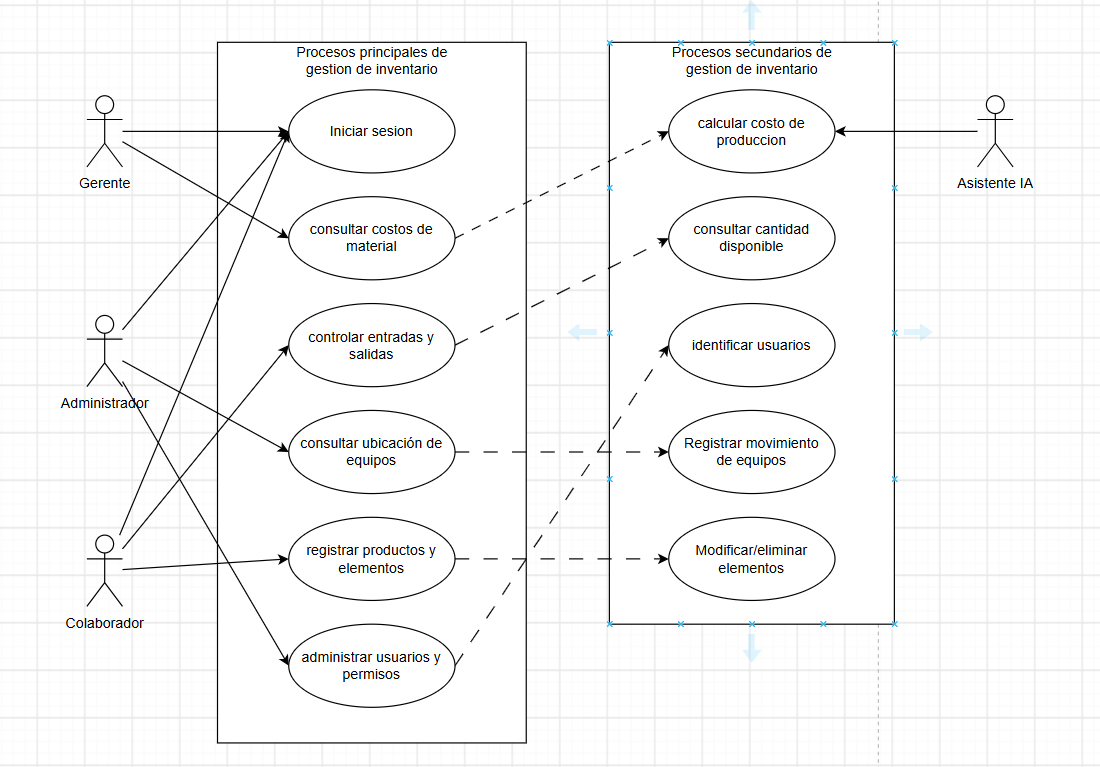
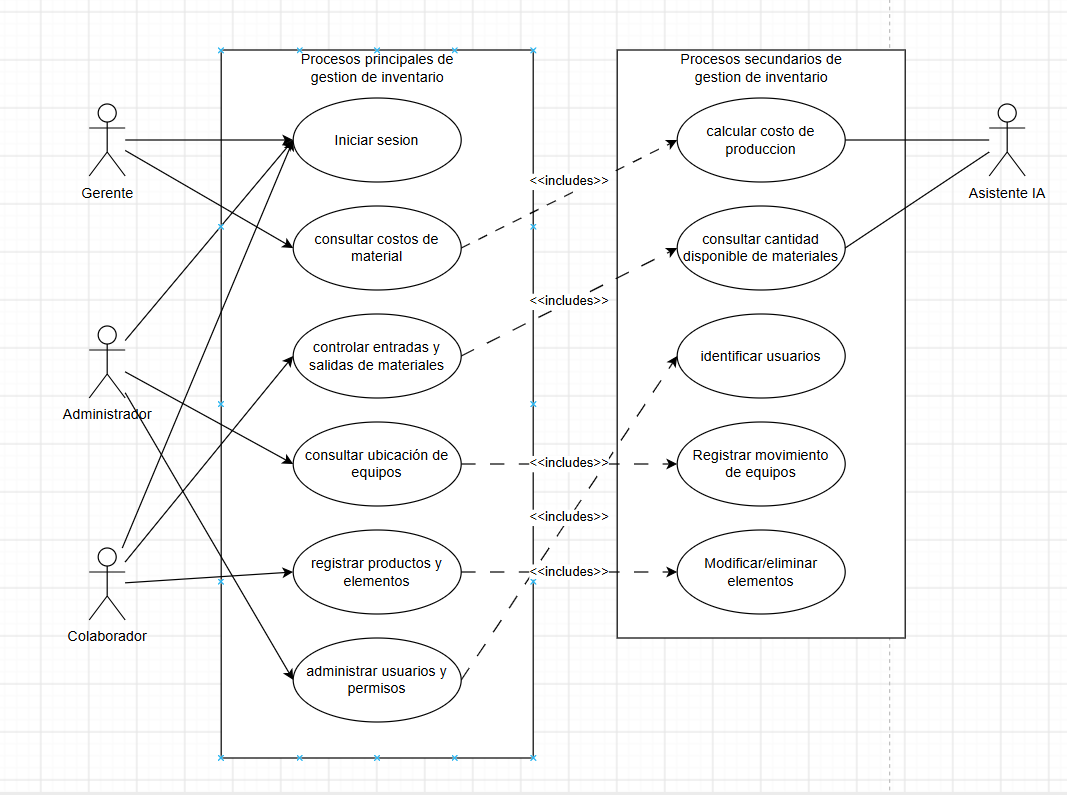
Update 5

diff --git a/docs/project-planning4.md b/docs/project-planning4.md
@@ -2,7 +2,7 @@
 
 Se trabaja en clase, por equipo.
 
-- **Entrega:** en el **repositorio del equipo en GitHub**, diligenciando el enunciado con los puntos 1 a 5 y subiendo el diagrama al repositorio *(imagen exportada o fuente PlantUML/draw.io)*.
+- **Entrega:** en el **repositorio del equipo en GitHub**, diligenciando el enunciado con los puntos 1 a 5 y subiendo el diagrama al repositorio _(imagen exportada o fuente PlantUML/draw.io)_.
 - Herramienta: draw.io, PlantUML, StarUML o Visual Paradigm.
 
 ---
@@ -11,34 +11,34 @@ Se trabaja en clase, por equipo.
 
 **Actores**
 
-| Actor         | Tipo *(humano / sistema externo / tiempo)* | Principal o secundario | Objetivo en el sistema |
-| ------------- | ------------------------------------------ | ---------------------- | ---------------------- |
-| *(ADMINISTRADOR)* | *(Humano)*                              | *(Principal)*          | *(administrar y supervisar el correcto funcionamiento del sistema)*          |
-| *(GERENTE)* | *(Humano)*                              | *(Principal)*          | *(administrar y organizar el inventario y tareas asignadas)*          |
-| *(COLABORADOR)* | *(Humano)*                              | *(Principal)*          | *(organiza y documenta los movimientos relacionados con el inventario)*          |
-| *(IA DE ORGANIZACION)* | *(Sistema externo)*                              | *(Secundario)*          | *(apoya en los procesos de organizacion de materias prímas)*          |
-| …             |                                            |                        |                        |
+| Actor                  | Tipo _(humano / sistema externo / tiempo)_ | Principal o secundario | Objetivo en el sistema                                                  |
+| ---------------------- | ------------------------------------------ | ---------------------- | ----------------------------------------------------------------------- |
+| _(ADMINISTRADOR)_      | _(Humano)_                                 | _(Principal)_          | _(administrar y supervisar el correcto funcionamiento del sistema)_     |
+| _(GERENTE)_            | _(Humano)_                                 | _(Principal)_          | _(administrar y organizar el inventario y tareas asignadas)_            |
+| _(COLABORADOR)_        | _(Humano)_                                 | _(Principal)_          | _(organiza y documenta los movimientos relacionados con el inventario)_ |
+| _(IA DE ORGANIZACION)_ | _(Sistema externo)_                        | _(Secundario)_         | _(apoya en los procesos de organizacion de materias prímas)_            |
+| …                      |                                            |                        |                                                                         |
 
 - Roles, no personas. La base de datos y el servidor **no** son actores.
 - Si el proyecto tiene componente de IA, el **proveedor del modelo** es un actor secundario.
 
 **Casos de uso**
 
-| ID    | Nombre *(verbo en infinitivo + objeto)* | Actor principal | RF que cubre |
-| ----- | --------------------------------------- | --------------- | ------------ |
-| CU-01 | *(registrar los productos o elementos del inventario)*  | *(COLABORADOR)*   | *(RF-01)*    |
-| CU-02 | *(Iniciar sesión dentro del sistema)*  | *(COLABORADOR,ADMINISTRADOR y ge)* | *(RF-02)*    |
-| CU-03 | *(Controlar entradas y salidas de materiales )*  | *(COLABORADOR Y ADMINISTRADOR)* | *(RF-03)*    |
-| CU-04 | *(Consultar la cantidad de material disponible)*  | *(COLABORADOR Y ADMINISTRADOR)* | *(RF-07)*    |
-| CU-05 | *(Consultar los costos asociados con los materiales)*  | *(ADMINISTRADOR)* | *(RF-08)*    |
-| CU-06 | *(Asignar tareas a los colaboradores)*  | *(GERENTE)* | *(RF-13)*    |
-| CU-07 | *(Registrar el movimiento de un equipo o elemento)*  | *(COLABORADOR)* | *(RF-05, RF-06)*    |
-| CU-08 | *(Calcular el costo de producción de un producto o trabajo)*  | *(GERENTE)* | *(RF-09)*    |
-| CU-09 | *(Administrar usuarios y permisos por rol)*  | *(ADMINISTRADOR)* | *(RF-10)*    |
-| CU-10 | *(Modificar o eliminar productos o elementos registrados)*  | *(GERENTE)* | *(RF-11)*    |
-| CU-11 | *(Consultar la existencia y ubicación de equipos o elementos)*  | *(COLABORADOR)* | *(RF-12)*    |
-| CU-12 | *(Sugerir la organización de materias primas con IA)*  | *(GERENTE)* | *(RF-14)*    |
-| …     |                                         |                 |              |
+| ID    | Nombre _(verbo en infinitivo + objeto)_                        | Actor principal                    | RF que cubre     |
+| ----- | -------------------------------------------------------------- | ---------------------------------- | ---------------- |
+| CU-01 | _(registrar los productos o elementos del inventario)_         | _(COLABORADOR)_                    | _(RF-01)_        |
+| CU-02 | _(Iniciar sesión dentro del sistema)_                          | _(COLABORADOR,ADMINISTRADOR y ge)_ | _(RF-02)_        |
+| CU-03 | _(Controlar entradas y salidas de materiales )_                | _(COLABORADOR Y ADMINISTRADOR)_    | _(RF-03)_        |
+| CU-04 | _(Consultar la cantidad de material disponible)_               | _(COLABORADOR Y ADMINISTRADOR)_    | _(RF-07)_        |
+| CU-05 | _(Consultar los costos asociados con los materiales)_          | _(ADMINISTRADOR)_                  | _(RF-08)_        |
+| CU-06 | _(Asignar tareas a los colaboradores)_                         | _(GERENTE)_                        | _(RF-13)_        |
+| CU-07 | _(Registrar el movimiento de un equipo o elemento)_            | _(COLABORADOR)_                    | _(RF-05, RF-06)_ |
+| CU-08 | _(Calcular el costo de producción de un producto o trabajo)_   | _(GERENTE)_                        | _(RF-09)_        |
+| CU-09 | _(Administrar usuarios y permisos por rol)_                    | _(ADMINISTRADOR)_                  | _(RF-10)_        |
+| CU-10 | _(Modificar o eliminar productos o elementos registrados)_     | _(GERENTE)_                        | _(RF-11)_        |
+| CU-11 | _(Consultar la existencia y ubicación de equipos o elementos)_ | _(COLABORADOR)_                    | _(RF-12)_        |
+| CU-12 | _(Sugerir la organización de materias primas con IA)_          | _(GERENTE)_                        | _(RF-14)_        |
+| …     |                                                                |                                    |                  |
 
 - **Mínimo 6 casos**, todos con al menos un RF.
 
@@ -56,21 +56,21 @@ Un solo diagrama con:
 
 **Justificación de las relaciones:**
 
-- **CU-03 `«include»` CU-04:** toda salida de material debe verificar primero la cantidad disponible, para evitar que dos trabajadores soliciten el mismo elemento cuando solo hay una unidad *(P7)*; además, la consulta de cantidades también se usa sola *(P5)*.
-- **CU-08 `«include»` CU-05:** el cálculo del costo de producción siempre parte de los costos de los materiales registrados *(P4, P5)*, y esos costos también se consultan sin calcular nada.
+- **CU-03 `«include»` CU-04:** toda salida de material debe verificar primero la cantidad disponible, para evitar que dos trabajadores soliciten el mismo elemento cuando solo hay una unidad _(P7)_; además, la consulta de cantidades también se usa sola _(P5)_.
+- **CU-08 `«include»` CU-05:** el cálculo del costo de producción siempre parte de los costos de los materiales registrados _(P4, P5)_, y esos costos también se consultan sin calcular nada.
 - **GERENTE hereda de COLABORADOR (generalización):** el gerente puede hacer todo lo que hace un colaborador sobre el inventario, además de asignar tareas y calcular costos.
 
 ---
 
 ## 3. Casos críticos
 
-Los tres casos que el prototipo implementa **de punta a punta** *(de la interfaz a la persistencia)*.
+Los tres casos que el prototipo implementa **de punta a punta** _(de la interfaz a la persistencia)_.
 
-| Caso      | Por qué es crítico *(valor / frecuencia / riesgo técnico)* |
-| --------- | ---------------------------------------------------------- |
-| *(CU-03)* | *(Valor: es el núcleo del inventario, pues mantiene actualizada la cantidad real de materiales. Frecuencia: se usa cada vez que un material entra o sale. Riesgo técnico: concurrencia, ya que dos trabajadores pueden pedir el mismo elemento cuando solo hay una unidad (P7, RNF-05).)* |
-| *(CU-07)* | *(Valor: resuelve el dolor principal, que los equipos se mueven sin actualizar el registro y el inventario no coincide con la realidad (P3, P6). Frecuencia: cada movimiento de equipos entre puestos. Riesgo: sin trazabilidad de quién y cuándo, la empresa puede enfrentar sanciones (RNF-04).)* |
-| *(CU-08)* | *(Valor: reemplaza el cálculo manual en hojas de cálculo, propenso a errores (P4). Frecuencia: cada trabajo o producto cotizado o fabricado. Riesgo técnico: la fórmula combina materiales, recursos y otros costos, y un error de cálculo afecta directamente el dinero de la empresa.)* |
+| Caso      | Por qué es crítico _(valor / frecuencia / riesgo técnico)_                                                                                                                                                                                                                                          |
+| --------- | --------------------------------------------------------------------------------------------------------------------------------------------------------------------------------------------------------------------------------------------------------------------------------------------------- |
+| _(CU-03)_ | _(Valor: es el núcleo del inventario, pues mantiene actualizada la cantidad real de materiales. Frecuencia: se usa cada vez que un material entra o sale. Riesgo técnico: concurrencia, ya que dos trabajadores pueden pedir el mismo elemento cuando solo hay una unidad (P7, RNF-05).)_           |
+| _(CU-07)_ | _(Valor: resuelve el dolor principal, que los equipos se mueven sin actualizar el registro y el inventario no coincide con la realidad (P3, P6). Frecuencia: cada movimiento de equipos entre puestos. Riesgo: sin trazabilidad de quién y cuándo, la empresa puede enfrentar sanciones (RNF-04).)_ |
+| _(CU-08)_ | _(Valor: reemplaza el cálculo manual en hojas de cálculo, propenso a errores (P4). Frecuencia: cada trabajo o producto cotizado o fabricado. Riesgo técnico: la fórmula combina materiales, recursos y otros costos, y un error de cálculo afecta directamente el dinero de la empresa.)_           |
 
 - **Máximo uno** puede ser el caso de IA; los otros dos son funcionalidad con persistencia propia.
 - No valen iniciar sesión.
@@ -83,15 +83,15 @@ Una tabla por caso crítico.
 
 ### CU-03 Controlar entradas y salidas de materiales
 
-| Campo                    | Contenido                                                    |
-| ------------------------ | ------------------------------------------------------------ |
-| **ID y nombre**          | CU-03 Controlar entradas y salidas de materiales             |
-| **Actor principal**      | Colaborador *(también lo realiza el Administrador)*          |
-| **Actores secundarios**  | —                                                            |
-| **Requisitos que cubre** | RF-03, RF-07, RNF-01, RNF-04, RNF-05                         |
-| **Precondiciones**       | El usuario inició sesión y el material ya está registrado en el inventario |
-| **Disparador**           | Un material ingresa a la empresa o un trabajador solicita un material para usarlo |
-| **Frecuencia**           | Varias veces al día *(P2, P8; la cifra exacta queda pendiente de confirmar con el cliente del proyecto)* |
+| Campo                    | Contenido                                                                                                |
+| ------------------------ | -------------------------------------------------------------------------------------------------------- |
+| **ID y nombre**          | CU-03 Controlar entradas y salidas de materiales                                                         |
+| **Actor principal**      | Colaborador _(también lo realiza el Administrador)_                                                      |
+| **Actores secundarios**  | —                                                                                                        |
+| **Requisitos que cubre** | RF-03, RF-07, RNF-01, RNF-04, RNF-05                                                                     |
+| **Precondiciones**       | El usuario inició sesión y el material ya está registrado en el inventario                               |
+| **Disparador**           | Un material ingresa a la empresa o un trabajador solicita un material para usarlo                        |
+| **Frecuencia**           | Varias veces al día _(P2, P8; la cifra exacta queda pendiente de confirmar con el cliente del proyecto)_ |
 
 **Flujo principal**
 
@@ -105,14 +105,14 @@ Una tabla por caso crítico.
 8. El sistema actualiza la cantidad disponible y guarda el movimiento con usuario, fecha y hora.
 9. El sistema informa que el movimiento quedó registrado.
 
-**Flujos alternos** *(se logra el objetivo por otro camino)*
+**Flujos alternos** _(se logra el objetivo por otro camino)_
 
 - **5a.** La cantidad solicitada es mayor que la disponible: el sistema informa la existencia real y permite al colaborador ajustar la cantidad. Vuelve al paso 3.
 - **8a.** El material queda por debajo del nivel mínimo de existencias: el sistema registra el movimiento y además avisa que conviene reponerlo. Continúa en el paso 9.
 
-**Excepciones** *(no se logra el objetivo)*
+**Excepciones** _(no se logra el objetivo)_
 
-- **8b.** Otro usuario tomó la última unidad en el mismo momento *(concurrencia)*: el sistema rechaza el movimiento, informa que la existencia cambió y no modifica el inventario. El caso termina sin registro.
+- **8b.** Otro usuario tomó la última unidad en el mismo momento _(concurrencia)_: el sistema rechaza el movimiento, informa que la existencia cambió y no modifica el inventario. El caso termina sin registro.
 - **8c.** Falla al guardar en la base de datos: el sistema informa el error, no modifica cantidades y registra el evento. El caso termina sin registro.
 
 **Postcondiciones**
@@ -124,15 +124,15 @@ Una tabla por caso crítico.
 
 ### CU-07 Registrar el movimiento de un equipo o elemento
 
-| Campo                    | Contenido                                                    |
-| ------------------------ | ------------------------------------------------------------ |
-| **ID y nombre**          | CU-07 Registrar el movimiento de un equipo o elemento        |
-| **Actor principal**      | Colaborador                                                  |
-| **Actores secundarios**  | —                                                            |
-| **Requisitos que cubre** | RF-05, RF-06, RF-12, RNF-04                                  |
-| **Precondiciones**       | El usuario inició sesión y el equipo o elemento está registrado con su ubicación actual |
-| **Disparador**           | Un trabajador traslada o intercambia un equipo (monitor, torre u otro) de un puesto a otro |
-| **Frecuencia**           | Cada vez que se mueve un equipo; hoy se informa por correo al coordinador *(P2, P6; cifra exacta pendiente de confirmar)* |
+| Campo                    | Contenido                                                                                                                 |
+| ------------------------ | ------------------------------------------------------------------------------------------------------------------------- |
+| **ID y nombre**          | CU-07 Registrar el movimiento de un equipo o elemento                                                                     |
+| **Actor principal**      | Colaborador                                                                                                               |
+| **Actores secundarios**  | —                                                                                                                         |
+| **Requisitos que cubre** | RF-05, RF-06, RF-12, RNF-04                                                                                               |
+| **Precondiciones**       | El usuario inició sesión y el equipo o elemento está registrado con su ubicación actual                                   |
+| **Disparador**           | Un trabajador traslada o intercambia un equipo (monitor, torre u otro) de un puesto a otro                                |
+| **Frecuencia**           | Cada vez que se mueve un equipo; hoy se informa por correo al coordinador _(P2, P6; cifra exacta pendiente de confirmar)_ |
 
 **Flujo principal**
 
@@ -146,12 +146,12 @@ Una tabla por caso crítico.
 8. El sistema actualiza la ubicación del equipo y guarda el movimiento con usuario, fecha y hora.
 9. El sistema informa que el movimiento quedó registrado.
 
-**Flujos alternos** *(se logra el objetivo por otro camino)*
+**Flujos alternos** _(se logra el objetivo por otro camino)_
 
 - **3a.** El equipo no está registrado: el sistema ofrece registrarlo primero (CU-01) y luego continúa. Vuelve al paso 3.
 - **6a.** Faltan datos obligatorios: el sistema indica cuáles faltan y permite completarlos. Vuelve al paso 5.
 
-**Excepciones** *(no se logra el objetivo)*
+**Excepciones** _(no se logra el objetivo)_
 
 - **6b.** El equipo fue movido por otra persona y su ubicación cambió desde que se consultó: el sistema informa la ubicación actualizada y no guarda el movimiento. El caso termina sin registro.
 - **8a.** Falla al guardar en la base de datos: el sistema informa el error, conserva la ubicación anterior y registra el evento. El caso termina sin registro.
@@ -165,15 +165,15 @@ Una tabla por caso crítico.
 
 ### CU-08 Calcular el costo de producción de un producto o trabajo
 
-| Campo                    | Contenido                                                    |
-| ------------------------ | ------------------------------------------------------------ |
-| **ID y nombre**          | CU-08 Calcular el costo de producción de un producto o trabajo |
-| **Actor principal**      | Gerente                                                      |
-| **Actores secundarios**  | Asistente IA                                                          |
-| **Requisitos que cubre** | RF-09, RF-08, RNF-01, RNF-03                                 |
-| **Precondiciones**       | El gerente inició sesión y los materiales tienen costo registrado |
+| Campo                    | Contenido                                                                                                            |
+| ------------------------ | -------------------------------------------------------------------------------------------------------------------- |
+| **ID y nombre**          | CU-08 Calcular el costo de producción de un producto o trabajo                                                       |
+| **Actor principal**      | Gerente                                                                                                              |
+| **Actores secundarios**  | Asistente IA                                                                                                         |
+| **Requisitos que cubre** | RF-09, RF-08, RNF-01, RNF-03                                                                                         |
+| **Precondiciones**       | El gerente inició sesión y los materiales tienen costo registrado                                                    |
 | **Disparador**           | El gerente necesita conocer cuánto cuesta fabricar un producto o realizar un trabajo (por ejemplo, instalar una red) |
-| **Frecuencia**           | Cada vez que se cotiza o se produce un trabajo *(P4; frecuencia exacta pendiente de confirmar)* |
+| **Frecuencia**           | Cada vez que se cotiza o se produce un trabajo _(P4; frecuencia exacta pendiente de confirmar)_                      |
 
 **Flujo principal**
 
@@ -187,12 +187,12 @@ Una tabla por caso crítico.
 8. El sistema presenta el desglose y el costo total.
 9. El gerente confirma y el sistema guarda el cálculo.
 
-**Flujos alternos** *(se logra el objetivo por otro camino)*
+**Flujos alternos** _(se logra el objetivo por otro camino)_
 
 - **3a.** El producto ya tiene un cálculo guardado: el sistema lo carga como base y el gerente lo ajusta. Vuelve al paso 3.
 - **8a.** El gerente quiere cambiar un dato tras ver el resultado: el sistema permite corregirlo y recalcula. Vuelve al paso 3.
 
-**Excepciones** *(no se logra el objetivo)*
+**Excepciones** _(no se logra el objetivo)_
 
 - **4a.** Un material no tiene costo registrado: el sistema indica cuál es, no calcula el total y sugiere registrar el costo. El caso termina sin cálculo.
 - **9a.** Falla al guardar en la base de datos: el sistema presenta el resultado sin guardarlo, informa el error y registra el evento. El caso termina sin cálculo guardado.
@@ -203,38 +203,38 @@ Una tabla por caso crítico.
 - **Garantía mínima:** nunca se guarda un cálculo incompleto ni con valores inválidos, y los costos de los materiales no cambian.
 
 - **Mínimo por caso:** 5 pasos en el flujo principal, **un flujo alterno y una excepción**.
-- Pasos con un sujeto *(el actor o el sistema)* y sin detalles de interfaz: *"elige la franja"*, no *"hace clic en el botón"*.
+- Pasos con un sujeto _(el actor o el sistema)_ y sin detalles de interfaz: _"elige la franja"_, no _"hace clic en el botón"_.
 - Si uno de los críticos es el de IA, sus excepciones incluyen **timeout, cuota agotada y respuesta malformada**.
 
 ---
 
 ## 5. Trazabilidad
 
-**Columna de caso de uso de la matriz** *(la que se abrió en la Clase 3)*:
+**Columna de caso de uso de la matriz** _(la que se abrió en la Clase 3)_:
 
-| Requisito | Fuente | Caso de uso |
-| --- | --- | --- |
-| RF-01 | P2 | CU-01 |
-| RF-02 | P5 | CU-02, CU-04 |
-| RF-03 | P2 | CU-03 |
-| RF-04 *(nuevo)* | P10 | CU-02 |
-| RF-05 | P6 | CU-07 |
-| RF-06 | P3 | CU-07 |
-| RF-07 | P5 | CU-04 |
-| RF-08 | P5 | CU-05 |
-| RF-09 | P4 | CU-08 |
-| RF-10 | P10 | CU-09 |
-| RF-11 | P2 | CU-10 |
-| RF-12 | P6 | CU-11 |
-| RF-13 *(nuevo)* | P1 | CU-06 |
-| RF-14 *(nuevo)* | Alcance de la ficha (IA de organización); por confirmar con el cliente | CU-12 |
-| … | | |
+| Requisito       | Fuente                                                                 | Caso de uso  |
+| --------------- | ---------------------------------------------------------------------- | ------------ |
+| RF-01           | P2                                                                     | CU-01        |
+| RF-02           | P5                                                                     | CU-02, CU-04 |
+| RF-03           | P2                                                                     | CU-03        |
+| RF-04 _(nuevo)_ | P10                                                                    | CU-02        |
+| RF-05           | P6                                                                     | CU-07        |
+| RF-06           | P3                                                                     | CU-07        |
+| RF-07           | P5                                                                     | CU-04        |
+| RF-08           | P5                                                                     | CU-05        |
+| RF-09           | P4                                                                     | CU-08        |
+| RF-10           | P10                                                                    | CU-09        |
+| RF-11           | P2                                                                     | CU-10        |
+| RF-12           | P6                                                                     | CU-11        |
+| RF-13 _(nuevo)_ | P1                                                                     | CU-06        |
+| RF-14 _(nuevo)_ | Alcance de la ficha (IA de organización); por confirmar con el cliente | CU-12        |
+| …               |                                                                        |              |
 
 **Huecos detectados:**
 
-| Hueco | Cuál | Qué se hace |
-| --- | --- | --- |
-| RF sin caso de uso | RF-10, RF-11 y RF-12 no tenían caso de uso. Además, RF-04 no existe en el catálogo del Taller 3 (salto de numeración). | Se crean CU-09 (RF-10), CU-10 (RF-11) y CU-11 (RF-12). Se crea RF-04 "El sistema debe permitir iniciar sesión según el rol" para CU-02. |
+| Hueco              | Cuál                                                                                                                                 | Qué se hace                                                                                                                                                                                                                           |
+| ------------------ | ------------------------------------------------------------------------------------------------------------------------------------ | ------------------------------------------------------------------------------------------------------------------------------------------------------------------------------------------------------------------------------------- |
+| RF sin caso de uso | RF-10, RF-11 y RF-12 no tenían caso de uso. Además, RF-04 no existe en el catálogo del Taller 3 (salto de numeración).               | Se crean CU-09 (RF-10), CU-10 (RF-11) y CU-11 (RF-12). Se crea RF-04 "El sistema debe permitir iniciar sesión según el rol" para CU-02.                                                                                               |
 | Caso de uso sin RF | CU-06 Asignar tareas, CU-12 Sugerir organización con IA y CU-02 Iniciar sesión (cita RF-02, que en el Taller 3 trata de cantidades). | Se agregan RF-13 (asignar tareas a personas específicas, P1), RF-14 (sugerir organización de materias primas con IA, por confirmar con el cliente) y RF-04 (iniciar sesión). Si el cliente no confirma RF-14, CU-12 sale del alcance. |
 
 - Todo lo que cambie el catálogo va al **registro de control de cambios** de la bitácora: alta de RF-04, RF-13 y RF-14, y la confirmación pendiente de CU-12.
@@ -245,25 +245,25 @@ Una tabla por caso crítico.
 
 Referencia de nivel de detalle. Mismo dominio de los talleres anteriores: **no se puede usar.**
 
-**1. Actores** *(barbería; extracto)*
+**1. Actores** _(barbería; extracto)_
 
-| Actor | Tipo | Principal o secundario | Objetivo |
-| --- | --- | --- | --- |
-| Cliente | Humano | Principal | Conseguir un turno sin llamar |
-| Barbero | Humano | Principal | Saber a quién atiende y registrar quién no llegó |
-| Dueño | Humano *(hereda de Barbero)* | Principal | Cerrar caja y mantener la clientela |
-| Proveedor de IA | Sistema externo | Secundario | Redactar el texto del recordatorio |
+| Actor           | Tipo                         | Principal o secundario | Objetivo                                         |
+| --------------- | ---------------------------- | ---------------------- | ------------------------------------------------ |
+| Cliente         | Humano                       | Principal              | Conseguir un turno sin llamar                    |
+| Barbero         | Humano                       | Principal              | Saber a quién atiende y registrar quién no llegó |
+| Dueño           | Humano _(hereda de Barbero)_ | Principal              | Cerrar caja y mantener la clientela              |
+| Proveedor de IA | Sistema externo              | Secundario             | Redactar el texto del recordatorio               |
 
-**1. Casos** *(extracto)*
+**1. Casos** _(extracto)_
 
-| ID | Nombre | Actor principal | RF |
-| --- | --- | --- | --- |
-| CU-01 | Reservar turno | Cliente | RF-01 |
-| CU-02 | Consultar franjas libres | Cliente | RF-01 |
-| CU-03 | Cancelar turno | Cliente | RF-04 |
-| CU-05 | Marcar turno no asistido | Barbero | RF-02 |
-| CU-06 | Cerrar caja del día | Dueño | RF-05 |
-| CU-07 | Redactar recordatorio con IA | Dueño | RF-08 |
+| ID    | Nombre                       | Actor principal | RF    |
+| ----- | ---------------------------- | --------------- | ----- |
+| CU-01 | Reservar turno               | Cliente         | RF-01 |
+| CU-02 | Consultar franjas libres     | Cliente         | RF-01 |
+| CU-03 | Cancelar turno               | Cliente         | RF-04 |
+| CU-05 | Marcar turno no asistido     | Barbero         | RF-02 |
+| CU-06 | Cerrar caja del día          | Dueño           | RF-05 |
+| CU-07 | Redactar recordatorio con IA | Dueño           | RF-08 |
 
 **2. Relaciones:** CU-01 `«include»` CU-02, porque toda reserva pasa por consultar las franjas y el cliente también las consulta sin reservar. Dueño hereda de Barbero, porque el dueño también atiende una silla.
 
@@ -273,31 +273,31 @@ Referencia de nivel de detalle. Mismo dominio de los talleres anteriores: **no s
 | ---------------------------------- | ---------------------------------------------------------------------------------------------------------------------- |
 | CU-01 Reservar turno               | Es el problema que se tiene es: el teléfono no para los sábados; ~40 al día; riesgo de dos reservas en la misma franja |
 | CU-06 Cerrar caja del día          | Todos los días; cálculo sobre los turnos atendidos                                                                     |
-| CU-07 Redactar recordatorio con IA | El caso de IA; reduce los no asistidos *(P6)*                                                                          |
+| CU-07 Redactar recordatorio con IA | El caso de IA; reduce los no asistidos _(P6)_                                                                          |
 
-**4. Descripción** *(CU-07; CU-01 está completo en la Sesión 5)*
+**4. Descripción** _(CU-07; CU-01 está completo en la Sesión 5)_
 
-| Campo | Contenido |
-| --- | --- |
-| **Actor principal** | Dueño |
-| **Actores secundarios** | Proveedor de IA |
-| **Requisitos** | RF-08, RNF-04 *(respuesta en menos de 10 s)* |
-| **Precondiciones** | Hay turnos *Reservados* para el día siguiente |
-| **Disparador** | El dueño prepara los recordatorios al cierre del día |
-| **Frecuencia** | Una vez al día |
+| Campo                   | Contenido                                            |
+| ----------------------- | ---------------------------------------------------- |
+| **Actor principal**     | Dueño                                                |
+| **Actores secundarios** | Proveedor de IA                                      |
+| **Requisitos**          | RF-08, RNF-04 _(respuesta en menos de 10 s)_         |
+| **Precondiciones**      | Hay turnos _Reservados_ para el día siguiente        |
+| **Disparador**          | El dueño prepara los recordatorios al cierre del día |
+| **Frecuencia**          | Una vez al día                                       |
 
 1. El dueño pide los recordatorios del día siguiente.
-2. El sistema lista los turnos *Reservados* de mañana.
+2. El sistema lista los turnos _Reservados_ de mañana.
 3. El sistema envía al proveedor de IA la franja, el barbero y el nombre de pila de cada cliente, **sin teléfono**.
 4. El proveedor devuelve un borrador de mensaje por turno.
-5. El sistema valida que cada borrador traiga fecha y franja, y los muestra marcados como *texto generado*.
+5. El sistema valida que cada borrador traiga fecha y franja, y los muestra marcados como _texto generado_.
 6. El dueño revisa, edita si quiere y aprueba.
 7. El sistema guarda los mensajes aprobados listos para enviar.
 
 - **5a.** Un borrador no trae fecha o franja: se descarta y se usa la plantilla fija para ese turno. Vuelve al paso 6.
 - **6a.** El dueño descarta un borrador: el sistema usa la plantilla fija para ese turno. Vuelve al paso 6.
-- **4a.** *(excepción)* El proveedor no responde en 10 s o devuelve HTTP 429: el sistema informa que la IA no está disponible, registra el evento y ofrece la plantilla fija para todos. El caso termina sin texto generado.
+- **4a.** _(excepción)_ El proveedor no responde en 10 s o devuelve HTTP 429: el sistema informa que la IA no está disponible, registra el evento y ofrece la plantilla fija para todos. El caso termina sin texto generado.
 
 **Postcondiciones.** Éxito: cada turno de mañana tiene un mensaje aprobado. Garantía mínima: ningún dato de contacto sale hacia el proveedor.
 
-**5. Huecos:** RF-06 *(reporte mensual de ingresos)* sin caso → se crea CU-09 Consultar reporte mensual. CU-04 Avisar a la lista de espera sin RF → se agrega RF-11 y se registra en el control de cambios.
+**5. Huecos:** RF-06 _(reporte mensual de ingresos)_ sin caso → se crea CU-09 Consultar reporte mensual. CU-04 Avisar a la lista de espera sin RF → se agrega RF-11 y se registra en el control de cambios.
